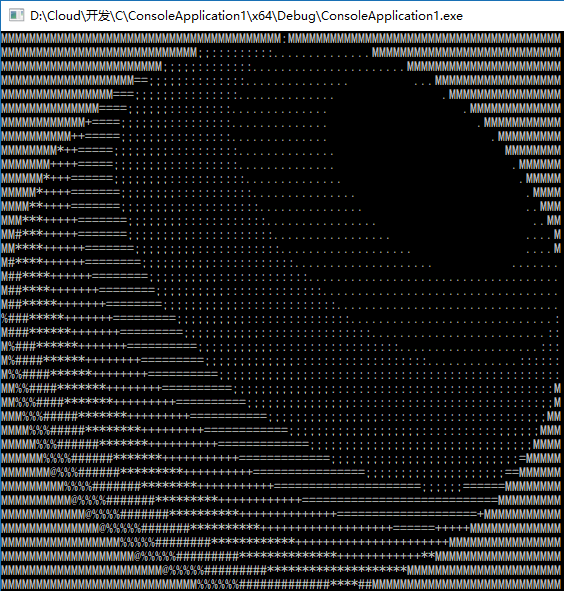
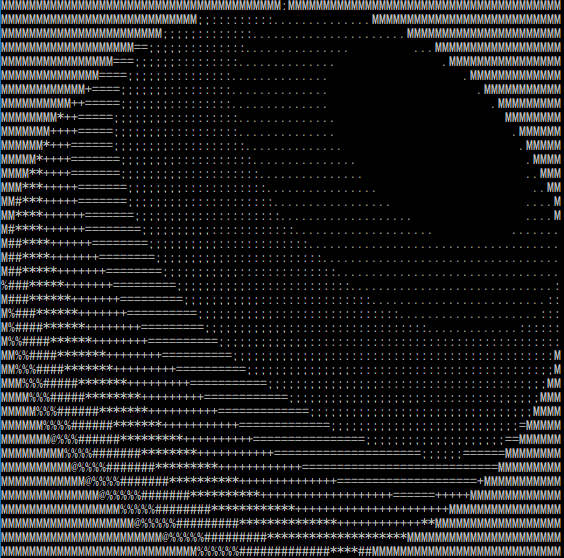
update sphere 1

diff --git a/Other/Output a Sphere/readme.md b/Other/Output a Sphere/readme.md
@@ -1,0 +1,45 @@
+# Sphere 1
+```
+MMMMMMMMMMMMMMMMMMMMMMMMMMMMMMMMMMMMMMMM:MMMMMMMMMMMMMMMMMMMMMMMMMMMMMMMMMMMMMMM
+MMMMMMMMMMMMMMMMMMMMMMMMMMMM;;:::::::::..............MMMMMMMMMMMMMMMMMMMMMMMMMMM
+MMMMMMMMMMMMMMMMMMMMMMM;;;;;::::::::......................MMMMMMMMMMMMMMMMMMMMMM
+MMMMMMMMMMMMMMMMMMM==;;;;;:::::::::...............         ...MMMMMMMMMMMMMMMMMM
+MMMMMMMMMMMMMMMM===;;;;;;:::::::::..............               .MMMMMMMMMMMMMMMM
+MMMMMMMMMMMMMM====;;;;;;:::::::::..............                   .MMMMMMMMMMMMM
+MMMMMMMMMMMM+====;;;;;;;:::::::::..............                     .MMMMMMMMMMM
+MMMMMMMMMM++=====;;;;;;;:::::::::..............                       .MMMMMMMMM
+MMMMMMMM*++=====;;;;;;;;::::::::::..............                        MMMMMMMM
+MMMMMMM++++=====;;;;;;;;::::::::::..............                         .MMMMMM
+MMMMMM*+++======;;;;;;;;:::::::::::..............                         .MMMMM
+MMMMM*++++=======;;;;;;;;:::::::::::...............                        .MMMM
+MMMM**++++=======;;;;;;;;;:::::::::::...............                       ..MMM
+MMM***+++++=======;;;;;;;;::::::::::::................                      ..MM
+MM#***+++++=======;;;;;;;;;::::::::::::.................                   ....M
+MM****++++++=======;;;;;;;;;::::::::::::...................                ....M
+M#****++++++========;;;;;;;;;;::::::::::::....................           .......
+M##****++++++========;;;;;;;;;;:::::::::::::....................................
+M##****+++++++========;;;;;;;;;;::::::::::::::..................................
+M##*****+++++++========;;;;;;;;;;;::::::::::::::................................
+%###*****+++++++=========;;;;;;;;;;:::::::::::::::.............................:
+M###******+++++++=========;;;;;;;;;;;::::::::::::::::.........................::
+M%###******+++++++==========;;;;;;;;;;;::::::::::::::::::....................:::
+M%####******++++++++=========;;;;;;;;;;;;;:::::::::::::::::::.............::::::
+M%%####******++++++++==========;;;;;;;;;;;;;::::::::::::::::::::::::::::::::::::
+MM%%####*******++++++++==========;;;;;;;;;;;;;;::::::::::::::::::::::::::::::::M
+MM%%%####*******+++++++++==========;;;;;;;;;;;;;;;:::::::::::::::::::::::::::;;M
+MMM%%%#####*******+++++++++===========;;;;;;;;;;;;;;;;:::::::::::::::::::::;;;MM
+MMMM%%%#####********+++++++++============;;;;;;;;;;;;;;;;;;;:::::::::::;;;;;;MMM
+MMMMM%%%######*******++++++++++=============;;;;;;;;;;;;;;;;;;;;;;;;;;;;;;;;MMMM
+MMMMMM%%%%######*******+++++++++++=============;;;;;;;;;;;;;;;;;;;;;;;;;;;=MMMMM
+MMMMMMM@%%%######*********++++++++++================;;;;;;;;;;;;;;;;;;;;==MMMMMM
+MMMMMMMMM%%%%#######********+++++++++++=====================;;;;;;======MMMMMMMM
+MMMMMMMMMM@%%%%#######*********++++++++++++============================MMMMMMMMM
+MMMMMMMMMMMM@%%%%#######**********++++++++++++++====================+MMMMMMMMMMM
+MMMMMMMMMMMMMM@%%%%%#######**********+++++++++++++++++++======+++++MMMMMMMMMMMMM
+MMMMMMMMMMMMMMMMM%%%%%########************++++++++++++++++++++++MMMMMMMMMMMMMMMM
+MMMMMMMMMMMMMMMMMMM@%%%%%#########**************++++++++++++**MMMMMMMMMMMMMMMMMM
+MMMMMMMMMMMMMMMMMMMMMMM@%%%%%#########********************MMMMMMMMMMMMMMMMMMMMMM
+MMMMMMMMMMMMMMMMMMMMMMMMMMMM%%%%%%#############****##MMMMMMMMMMMMMMMMMMMMMMMMMMM
+```
+![](https://raw.githubusercontent.com/HMBSbige/MyCodeLibrary/master/Other/Output%20a%20Sphere/pic/Sphere%201.png)
+# Sphere 2
